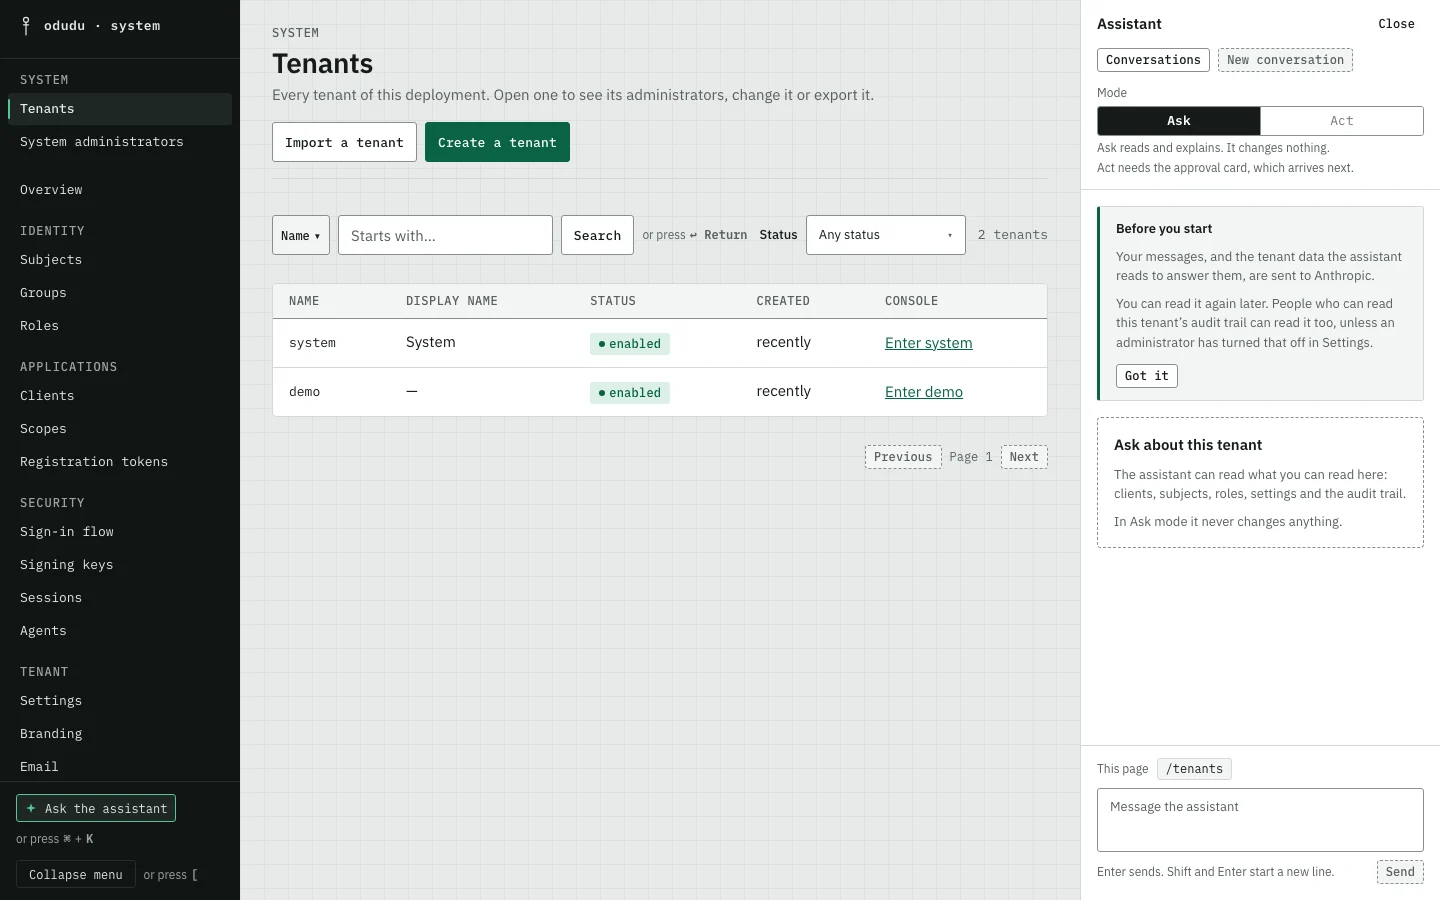
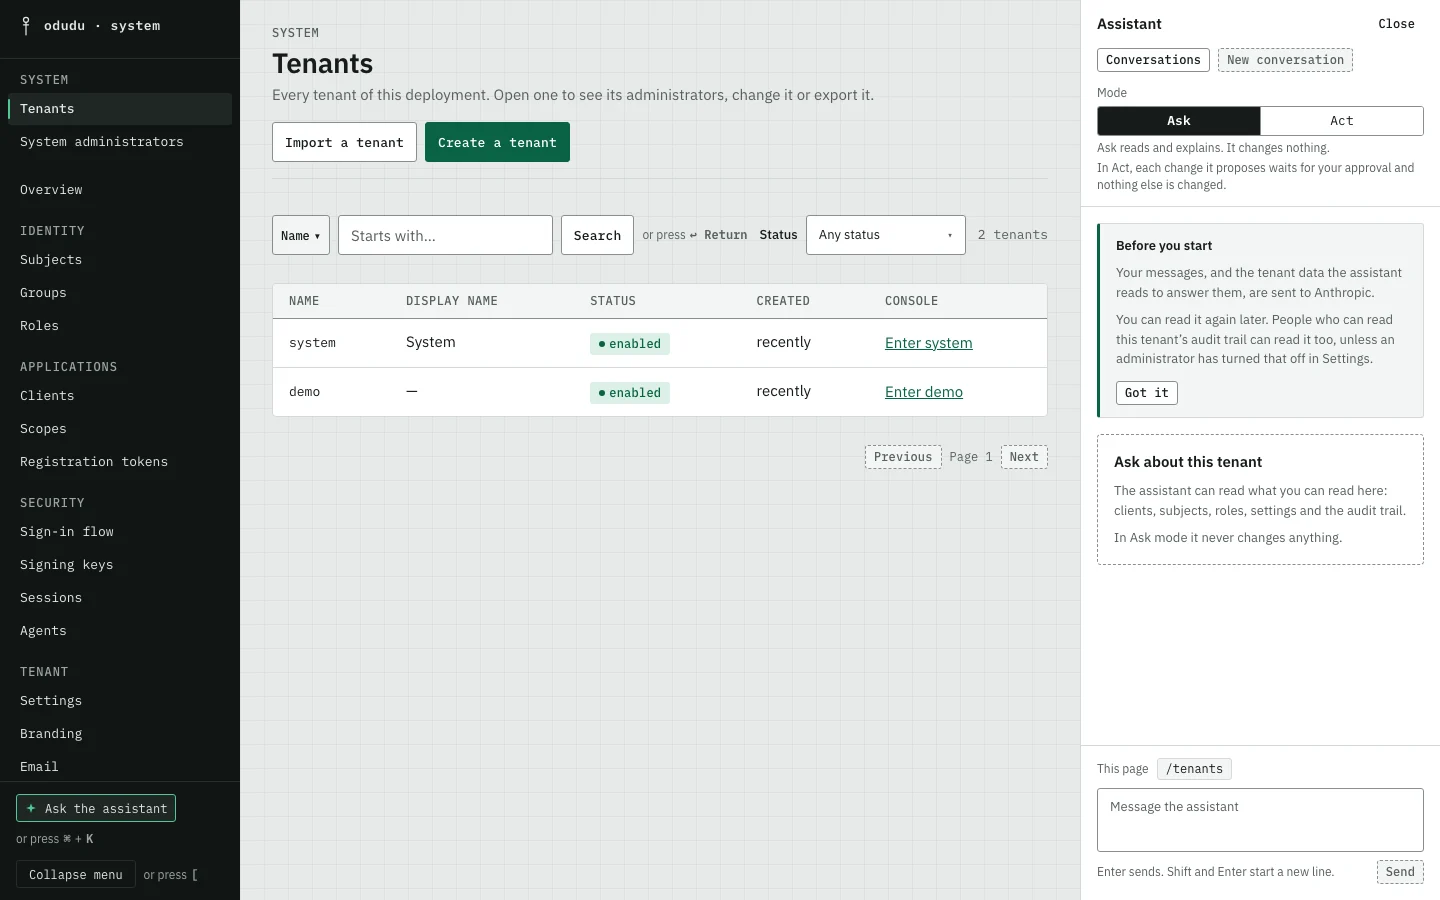
docs: describe Act, the approval card and the activity feed

Changed region(s): [[0.75, 0.2489, 0.9688, 0.6222], [0.75, 0.1867, 0.9688, 0.2178]]

diff --git a/apps/docs/tests/support/console-labels.ts b/apps/docs/tests/support/console-labels.ts
@@ -645,7 +645,19 @@ export const DEFINED: Readonly<Record<string, Defined>> = {
   ),
   Connecting: widget('assistant-panel/services/wording.ts', "statusConnecting: 'Connecting'"),
   Thinking: widget('assistant-panel/services/wording.ts', "statusThinking: 'Thinking'"),
-  'Listing clients': widget('assistant-panel/services/parts.ts', "doing: 'Listing'"),
+  'Listing clients': widget('assistant-panel/services/activity-lines.ts', "doing: 'Listing'"),
+  Approve: widget('assistant-panel/services/wording.ts', "cardApprove: 'Approve'"),
+  Refuse: widget('assistant-panel/services/wording.ts', "cardRefuse: 'Refuse'"),
+  'Approval needed:': widget(
+    'assistant-panel/services/wording.ts',
+    "cardNeeded: 'Approval needed'",
+  ),
+  'Jump to approval': widget('assistant-panel/services/wording.ts', "cardJump: 'Jump to approval'"),
+  Expired: widget('assistant-panel/services/wording.ts', "cardExpired: 'Expired'"),
+  'Show steps': widget('assistant-panel/services/wording.ts', "feedShow: 'Show steps'"),
+  'Hide steps': widget('assistant-panel/services/wording.ts', "feedHide: 'Hide steps'"),
+  'Show the call': widget('assistant-panel/services/wording.ts', "stepRaw: 'Show the call'"),
+  'You, as': widget('assistant-panel/services/approval.ts', 'who: `You, as ${username}`'),
   Stopped: widget('assistant-panel/services/wording.ts', "statusStopped: 'Stopped'"),
   Finished: widget('assistant-panel/services/wording.ts', "statusFinished: 'Finished'"),
   'Finished.': widget('assistant-panel/services/wording.ts', "statusFinished: 'Finished'"),

diff --git a/apps/docs/scripts/console-shots/screens.ts b/apps/docs/scripts/console-shots/screens.ts
@@ -565,7 +565,7 @@ export const SCREENS: readonly Screen[] = [
   },
   {
     name: 'assistant-panel',
-    alt: 'The Tenants page of the system tenant with the assistant’s panel open beside it: Conversations and New conversation buttons under the title, the mode switch set to Ask with Act dimmed and a sentence saying why, a notice naming where messages are sent and who can read the conversation, a short description of what the assistant can read, and a message field with a Send button.',
+    alt: 'The Tenants page of the system tenant with the assistant’s panel open beside it: Conversations and New conversation buttons under the title, the mode switch set to Ask with Act beside it and a sentence about what Act leaves to you, a notice naming where messages are sent and who can read the conversation, a short description of what the assistant can read, and a message field with a Send button.',
     caption: 'The panel opens beside the page, with a notice the first time it is used.',
     signedIn: true,
     viewport: PANEL_VIEW,

diff --git a/apps/admin-console/src/widgets/assistant-panel/ui/ApprovalCard/ApprovalCard.module.css b/apps/admin-console/src/widgets/assistant-panel/ui/ApprovalCard/ApprovalCard.module.css
@@ -1,4 +1,5 @@
 .card {
+  position: relative;
   display: grid;
   gap: var(--space-3);
   min-inline-size: 0;
@@ -90,8 +91,14 @@
   font-weight: 600;
 }
 
+/* Empty, the status line stays in the page so a screen reader is already
+   listening, and takes no room. Display none would take it out of the page. */
 .outcome:empty {
-  display: none;
+  position: absolute;
+  inline-size: 1px;
+  block-size: 1px;
+  overflow: hidden;
+  clip-path: inset(50%);
 }
 
 @media (max-width: 22rem) {

diff --git a/CHANGELOG.md b/CHANGELOG.md
@@ -8,6 +8,8 @@ All notable changes to Odudu are written here, newest first. The format follows
 
 ### Added
 
+- Act in the console assistant. The **Mode** switch now offers Act where the tenant allows it (a conversation still starts in Ask, and in another tenant Act stays dimmed). In Act each change the assistant proposes appears as a card in its answer, built from what the server stored of the change: what it is, what it touches, every field now beside its value after (added, removed or changed written in words, stacked on a narrow screen), that you decide as you, and the time left by the server's clock. **Approve** makes the change and the answer carries on; **Refuse** changes nothing and the assistant is told. Neither button has the focus when the card appears, a new card is announced once and takes no focus, **Jump to approval** moves to it, an expired card loses its buttons, a refused decision (already decided, expired, not yours) is said in an alert, and a change that removes something asks once more. Only your own console sign-in can decide, as before.
+- Each step of an assistant answer is a short phrase with its state and, when the panel watched it, how long it took, such as "Checking lockout state". The list is open while the answer is being written or waits for you and put away when it is finished, a failed or refused step stays in view, and **Show the call** opens the tool and the arguments it was called with.
 - A console assistant conversation can be carried on after you sign in again. A message to one of your conversations that is not archived, whose earlier sign-in ended because you signed out or it lapsed, is answered under a new grant made from the sign-in you hold now, with your current access and nothing from the earlier one, and the old grant ends; the conversation keeps its messages and the assistant is told that what its tools returned earlier may be out of date. In another tenant you must still hold `manage-tenants` and `use-assistant` and the tenant must still offer the assistant. A conversation whose sign-in was ended for another reason (a refresh token used twice, an administrator ending the session, a recovered account) is never revived: the message is refused `409` (`about:blank#conversation-ended`), the panel says so and offers **Start a new conversation**. An archived one is refused `about:blank#conversation-archived` until you restore it, and a sign-in that may not hold the conversation `about:blank#conversation-access-refused`. Each carrying on is an `assistant.reattached` audit event naming the old and the new grant, and `GET .../assistant/last-conversation` reports `continuable: true` for a conversation that would be answered. Conversations whose sign-in ended before this release are not carried on. A grant now records why it was revoked (`revoked_cause`) where the person ended their own sign-in.
 - Your own conversations in the console assistant's panel. **Conversations**, under the panel's title, lists them newest first under Today, Yesterday, Earlier this week and Earlier, in a view that slides in over the conversation and leaves it running behind it. Choose a row to open it, with the arrow keys and Enter if you like. From each row's **Actions** you can **Archive** (at once, with **Undo**; an **Archived** section keeps what you hid, and an archived conversation opens read-only until you **Restore** it), **Export as Markdown** or **Export as JSON**, or **Delete**, which asks first, removes the text for good and keeps a record without any text that a conversation was deleted. A reported conversation can be archived but not deleted, and the menu says why. Opening the panel, and reloading the console, now reopens your latest conversation with its messages. If an answer is still being written when you pick another conversation, the panel asks whether to **Stop and switch** or **Keep waiting**. When the assistant is switched off for the tenant while an answer is running, the panel says so. For a system administrator acting in another tenant the list is that tenant's, and each row names it. The list is read and changed through the routes of your own conversations (`GET /assistant/conversations`, `GET /assistant/last-conversation`, `PUT /assistant/conversations/<id>/archived`, `DELETE` and `GET .../export` and `.../export/markdown`).
 - The console assistant for a system administrator in another tenant. Opened on `demo` while signed in to `system`, **Ask the assistant** is offered when the administrator holds `use-assistant` and `manage-tenants`, the server has the assistant on and `demo` has not switched it off. The panel names the tenant for as long as it is open (`Acting in demo`), starts every conversation in Ask and shows Act dimmed with "Act is not available in another tenant.", and keeps the conversations of each tenant apart. Its first-run notice, remembered apart from the other one, says that the administrator's own tenant pays and that the other tenant's administrators see that the assistant was used and which tools it ran, not what was written. A refusal is worded for the case: the tenant, or the administrator's own, has switched the assistant off, or the administrator no longer holds the two capabilities.

diff --git a/apps/admin-console/src/widgets/assistant-panel/README.md b/apps/admin-console/src/widgets/assistant-panel/README.md
@@ -63,5 +63,23 @@ The conversation with the assistant, docked beside the page or laid over it.
   the number the shell's stylesheet asks about). Over the page it is a dialog:
   the page behind is out of reach, Tab stays inside, Escape closes.
 
-Approval cards, the activity feed and the profiles are later; a change that
-waits for a decision is said to wait, and nothing is approved from here yet.
+- **Act and the approval card.** The mode switch is the person's, kept for a
+  conversation about to start and sent to the server for one that has
+  (`setMode`). A change that waits is read from the server's list while the
+  conversation waits (`repository/useApprovals`), and the card is drawn from
+  that stored change, never from the model's words (`ui/ApprovalCard`,
+  `ui/ChangeDiff`). The countdown is the server's clock, taken from the
+  `Date` of the answer that listed the card (`adapter/approvals`), so a wrong
+  browser clock does not stretch or shorten the time. A decision is sent once,
+  and the answer is carried on by the stream's resume route only when it was
+  accepted. A card the person acted on is kept here, with its change, so the
+  outcome can still be drawn after the server stops listing it; a later visit
+  has the step's own state only. Nothing approves by expiry, by a default
+  focus or by a timer.
+- **The activity feed** (`ui/ActivityFeed`, `services/activity-lines`) words a
+  step from a phrase table with a fallback from the tool's name; a test over
+  the assistant's whole tool list holds every tool to a phrase. A step's time is
+  what the stream said (`adapter/watchSteps`), so a step the panel never saw
+  begin has none.
+
+The profiles are later.
